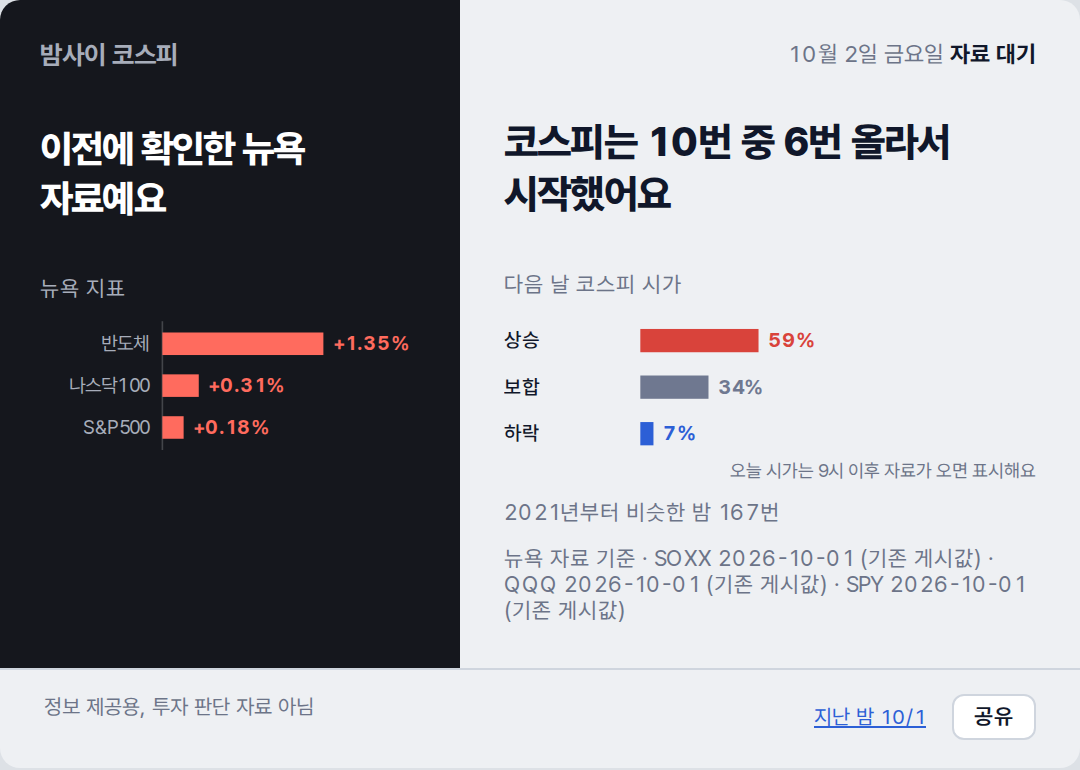
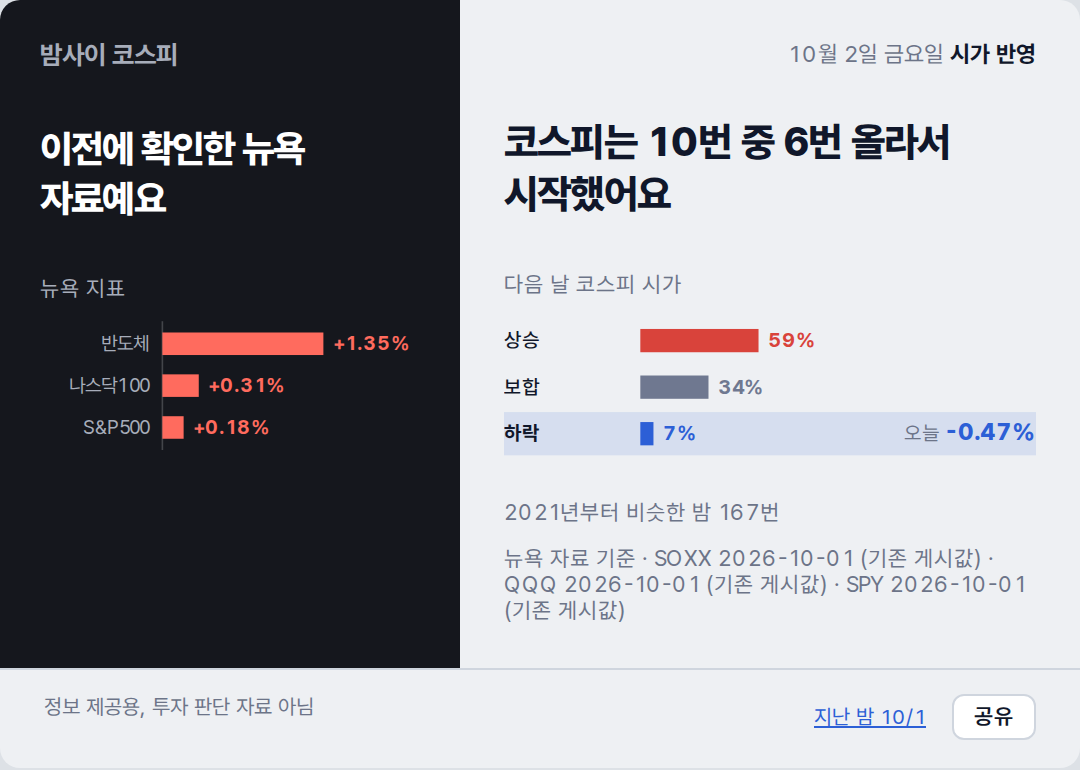
deploy: c0d07a214321b41f7cf333fef670b17ffe5b5852

Changed region(s): [[0.6722, 0.5299, 0.9778, 0.6234], [0.8861, 0.0312, 0.9778, 0.0935], [0.4583, 0.5299, 0.4889, 0.5922]]

diff --git a/2026-10-02/index.html b/2026-10-02/index.html
@@ -38,17 +38,18 @@ footer a{color:#2C5FD6}
 <rect x="76" y="61" width="13.2" height="14" fill="var(--up)"/>
 <text x="95.2" y="72" fill="var(--up)" font-weight="700">+0.18%</text>
 </svg></section>
-<section class="day"><p class="stamp">10월 2일 금요일 <b>자료 대기</b></p><p class="claim">코스피는 10번 중 6번 올라서 시작했어요</p><p class="lab">다음 날 코스피 시가</p><svg viewBox="0 0 320 100" xmlns="http://www.w3.org/2000/svg" font-family="var(--sans)" font-size="12">
+<section class="day"><p class="stamp">10월 2일 금요일 <b>시가 반영</b></p><p class="claim">코스피는 10번 중 6번 올라서 시작했어요</p><p class="lab">다음 날 코스피 시가</p><svg viewBox="0 0 320 100" xmlns="http://www.w3.org/2000/svg" font-family="var(--sans)" font-size="12">
 <text x="0" y="20" fill="var(--ink)" font-weight="500">상승</text>
 <rect x="82" y="9" width="71.1" height="14" fill="var(--up)"/>
 <text x="159.1" y="20" fill="var(--up)" font-weight="700">59%</text>
 <text x="0" y="48" fill="var(--ink)" font-weight="500">보합</text>
 <rect x="82" y="37" width="41.0" height="14" fill="var(--flat)"/>
 <text x="129.0" y="48" fill="var(--flat)" font-weight="700">34%</text>
-<text x="0" y="76" fill="var(--ink)" font-weight="500">하락</text>
+<rect x="0" y="59" width="320" height="26" fill="var(--down)" opacity=".12"/>
+<text x="0" y="76" fill="var(--ink)" font-weight="700">하락</text>
 <rect x="82" y="65" width="7.9" height="14" fill="var(--down)"/>
 <text x="95.9" y="76" fill="var(--down)" font-weight="700">7%</text>
-<text x="320" y="98" text-anchor="end" fill="var(--muted)" font-size="11">오늘 시가는 9시 이후 자료가 오면 표시해요</text>
+<text x="320" y="76" text-anchor="end" fill="var(--ink)"><tspan fill="var(--muted)">오늘 </tspan><tspan font-weight="800" font-size="14" fill="var(--down)">-0.47%</tspan></text>
 </svg><p class="cap">2021년부터 비슷한 밤 167번</p><p class="cap">뉴욕 자료 기준 · SOXX 2026-10-01 (기존 게시값) · QQQ 2026-10-01 (기존 게시값) · SPY 2026-10-01 (기존 게시값)</p></section>
 <footer><span>정보 제공용, 투자 판단 자료 아님</span><span style="white-space:nowrap"><a href="../2026-10-01/">지난 밤 10/1</a> <button class="share" type="button">공유</button></span></footer>
 <script>

diff --git a/index.html b/index.html
@@ -38,17 +38,18 @@ footer a{color:#2C5FD6}
 <rect x="76" y="61" width="13.2" height="14" fill="var(--up)"/>
 <text x="95.2" y="72" fill="var(--up)" font-weight="700">+0.18%</text>
 </svg></section>
-<section class="day"><p class="stamp">10월 2일 금요일 <b>자료 대기</b></p><p class="claim">코스피는 10번 중 6번 올라서 시작했어요</p><p class="lab">다음 날 코스피 시가</p><svg viewBox="0 0 320 100" xmlns="http://www.w3.org/2000/svg" font-family="var(--sans)" font-size="12">
+<section class="day"><p class="stamp">10월 2일 금요일 <b>시가 반영</b></p><p class="claim">코스피는 10번 중 6번 올라서 시작했어요</p><p class="lab">다음 날 코스피 시가</p><svg viewBox="0 0 320 100" xmlns="http://www.w3.org/2000/svg" font-family="var(--sans)" font-size="12">
 <text x="0" y="20" fill="var(--ink)" font-weight="500">상승</text>
 <rect x="82" y="9" width="71.1" height="14" fill="var(--up)"/>
 <text x="159.1" y="20" fill="var(--up)" font-weight="700">59%</text>
 <text x="0" y="48" fill="var(--ink)" font-weight="500">보합</text>
 <rect x="82" y="37" width="41.0" height="14" fill="var(--flat)"/>
 <text x="129.0" y="48" fill="var(--flat)" font-weight="700">34%</text>
-<text x="0" y="76" fill="var(--ink)" font-weight="500">하락</text>
+<rect x="0" y="59" width="320" height="26" fill="var(--down)" opacity=".12"/>
+<text x="0" y="76" fill="var(--ink)" font-weight="700">하락</text>
 <rect x="82" y="65" width="7.9" height="14" fill="var(--down)"/>
 <text x="95.9" y="76" fill="var(--down)" font-weight="700">7%</text>
-<text x="320" y="98" text-anchor="end" fill="var(--muted)" font-size="11">오늘 시가는 9시 이후 자료가 오면 표시해요</text>
+<text x="320" y="76" text-anchor="end" fill="var(--ink)"><tspan fill="var(--muted)">오늘 </tspan><tspan font-weight="800" font-size="14" fill="var(--down)">-0.47%</tspan></text>
 </svg><p class="cap">2021년부터 비슷한 밤 167번</p><p class="cap">뉴욕 자료 기준 · SOXX 2026-10-01 (기존 게시값) · QQQ 2026-10-01 (기존 게시값) · SPY 2026-10-01 (기존 게시값)</p></section>
 <footer><span>정보 제공용, 투자 판단 자료 아님</span><span style="white-space:nowrap"><a href="./2026-10-01/">지난 밤 10/1</a> <button class="share" type="button">공유</button></span></footer>
 <script>
